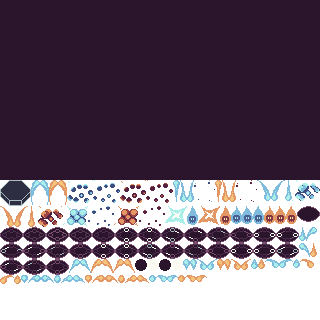
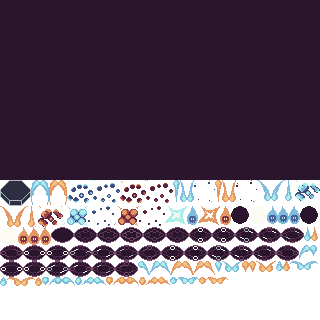
wip

Changed region(s): [[0.0, 0.625, 1.0, 0.9062]]

diff --git a/entities/convert_blast.py b/entities/convert_blast.py
@@ -4,6 +4,8 @@ from typing import Self, TYPE_CHECKING
 
 from engine import *
 
+from entities.explosion import Explosion
+
 if TYPE_CHECKING:
     from entities.skull import Skull
 
@@ -13,11 +15,13 @@ class ConvertBlast(Entity):
         super().__init__()
         self.sprite = AnimatedSprite.empty()
         self.target: Skull | None = None
+        self.color = ""
 
     @classmethod
     def create(cls, parent: Skull, direction: str) -> Self:
         cb = cls()
         cb.sprite = AnimatedSprite.from_atlas("atlas.png", f"{parent.team}_blast_{direction}")
+        cb.color = parent.team
         cb.sprite.pivot.set_center()
         cb.sprite.play("default")
         cb.sprite.get_animation("default").loop = False
@@ -30,6 +34,9 @@ class ConvertBlast(Entity):
         self.sprite.update()
         if not self.sprite.is_playing:
             self.target.convert()
+            explosion = Explosion.create(self, self.color)
+            explosion.x = self.target.x
+            explosion.y = self.target.y - 6
             self.destroy()
 
     def draw(self, camera: Camera) -> None:

diff --git a/entities/explosion.py b/entities/explosion.py
@@ -1,0 +1,29 @@
+from __future__ import annotations
+
+from typing import Self
+
+from engine import *
+
+
+class Explosion(Entity):
+    def __init__(self) -> None:
+        super().__init__()
+        self.sprite = AnimatedSprite.empty()
+
+    @classmethod
+    def create(cls, parent: Entity, color: str) -> Self:
+        e = cls()
+        e.sprite = AnimatedSprite.from_atlas("atlas.png", f"{color}_explosion")
+        e.sprite.pivot.set_center()
+        e.sprite.play("default")
+        e.sprite.get_animation("default").loop = False
+        parent.scene.entities.add(e)
+        return e
+
+    def update(self) -> None:
+        self.sprite.update()
+        if not self.sprite.is_playing:
+            self.destroy()
+
+    def draw(self, camera: Camera) -> None:
+        self.sprite.draw(camera, self.position())
